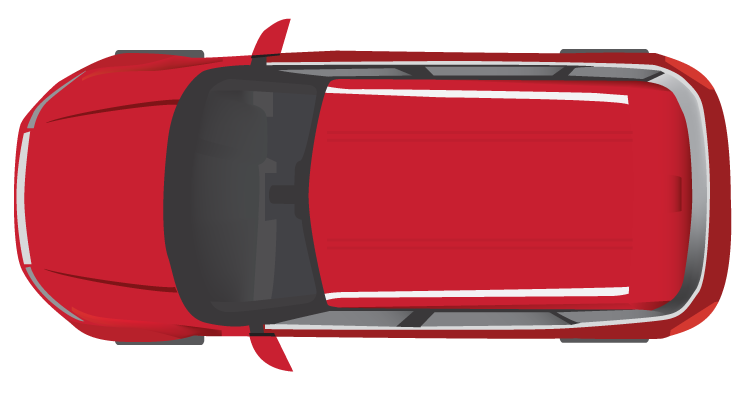
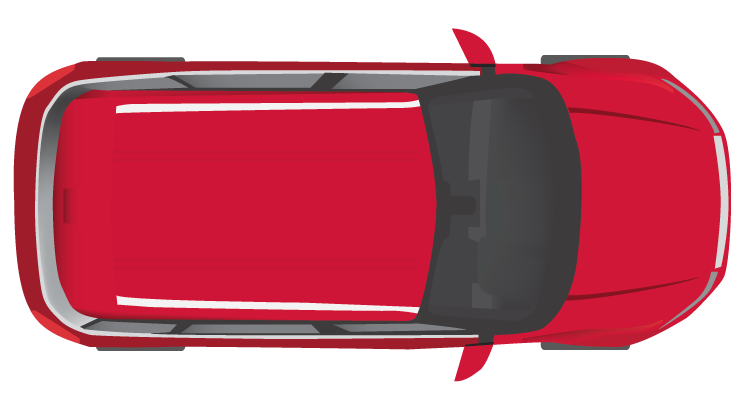
sprite

diff --git a/environments/simple-road/simple_road/envs/agents.py b/environments/simple-road/simple_road/envs/agents.py
@@ -1,5 +1,6 @@
 from sprites import CarSprite, PedestrianSprite
 from utils.Vec2d import Vec2d
+import numpy as np
 
 
 class Entity:
@@ -28,12 +29,12 @@ class RoadUser(Entity):
     def __init__(self, path, vel, isCar=True):
         super(Entity, self).__init__()
         self.path = path
-        self.heading, self.timeNode, self.nTraj = self.getLength(path)
         self.iTraj = 0
-        self.position = path[0]
         self.time = 0
         self.vel = velocity
-        self.angle = 0
+
+        self.headings, self.timeNode, self.nTraj = self.handlePath(path)
+        self.position, self.angle = self.getPosition(0)
         if isCar:
             self.sprite = CarSprite(path[0])
         else:
@@ -41,27 +42,53 @@ class RoadUser(Entity):
 
     def handlePath(self, path):
         n = len(path)
-        headings = [Vec2d(0, 0)]
         timeNode = [0]
         if n > 1:
             L = 0
-            for i in range(0, n - 2):
+            headings = []
+            for i in range(0, n - 1):
                 head = path[i + 1] - path[i]
-                headings.append(head)
                 l = head.length
                 t = l / self.vel
                 L += l
                 timeNode.append(timeNode[i] + t)
+                head = head / head.length
+                headings.append(head)
+        else:
+            headings = [Vec2d(0, 0)]
         return headings, timeNode, n
 
-    def processPosition(self, t):
-        if self.iTraj < self.nTraj - 1 && t > self.timeNode[self.iTraj + 1]:
+    def getPosition(self, t):
+        i = np.searchsorted(self.timeNode, t)
+        if i >= self.nTraj - 1:
+            pos = self.path[-1]
+            ang = self.headings[-1].angle
+        else:
+            gap = t - self.timeNode[i]
+            ang = self.headings[i].angle
+            pos = self.path[i] + (gap * self.vel) * self.headings[i]
+        return pos, ang
+
+    def getCurrentPos(self, time_passed):
+        self.time += time_passed
+        if self.iTraj == self.nTraj - 1:
+            pos = self.path[-1]
+            ang = self.headings[-1].angle
+        elif self.time > self.timeNode[-1]:
             self.iTraj += 1
-        
+            pos = self.path[-1]
+            ang = self.headings[-1].angle
+        else:
+            if self.time > self.timeNode[self.iTraj + 1]:
+                self.iTraj += 1
+            gap = self.time - self.timeNode[self.iTraj]
+            ang = self.headings[self.iTraj].angle
+            pos = self.path[self.iTraj] + (gap * self.vel) * self.headings[self.iTraj]
+        ang = -ang
+        return pos, ang
 
     def process(self, time_passed):
-        self.iTraj += 1
-        self.position = self.traj[self.iTraj]
+        self.position, self.angle = self.getCurrentPos(time_passed)
         self.sprite.update(self.position, self.angle)
 
     def render(self, screen):
@@ -71,20 +98,26 @@ class RoadUser(Entity):
 if __name__ == '__main__':
     import pygame
     from pygame.locals import QUIT
-    import time
 
     pygame.init()
-    screen = pygame.display.set_mode((640, 480), 0, 32)
+    screen_size = (640, 480)
+    screen = pygame.display.set_mode(screen_size, 0, 32)
+    background = pygame.surface.Surface(screen_size)
+    background.fill((204, 196, 138))
+    clock = pygame.time.Clock()
 
     traj1 = [Vec2d(100, 100), Vec2d(200, 100), Vec2d(300, 100), Vec2d(400, 100), Vec2d(400, 200), Vec2d(400, 300)]
-    velocity = 10
+    velocity = 50
     car = RoadUser(traj1, velocity)
 
     while True:
         for event in pygame.event.get():
             if event.type == QUIT:
                 exit()
+        time_passed = clock.tick(30) / 1000
+        print("time_passed", time_passed)
+        car.process(time_passed)
+        screen.blit(background, (0, 0))
         car.render(screen)
-        car.process()
         pygame.display.update()
-        time.sleep(1)
+        # time.sleep(1)

diff --git a/environments/simple-road/simple_road/envs/sprites.py b/environments/simple-road/simple_road/envs/sprites.py
@@ -12,10 +12,12 @@ class RoadUserSprite(pygame.sprite.Sprite):
         self.ang = 0
 
     def update(self, position, angle):
-        self.rect.x, self.rect.y = position.x, position.y
+        # self.rect.x, self.rect.y = position.x, position.y
         if self.ang != angle:
             self.image = pygame.transform.rotate(self.image, angle)
+            self.rect = self.image.get_rect()
             self.ang = angle
+        self.rect.center = position
 
 
 class CarSprite(RoadUserSprite):
